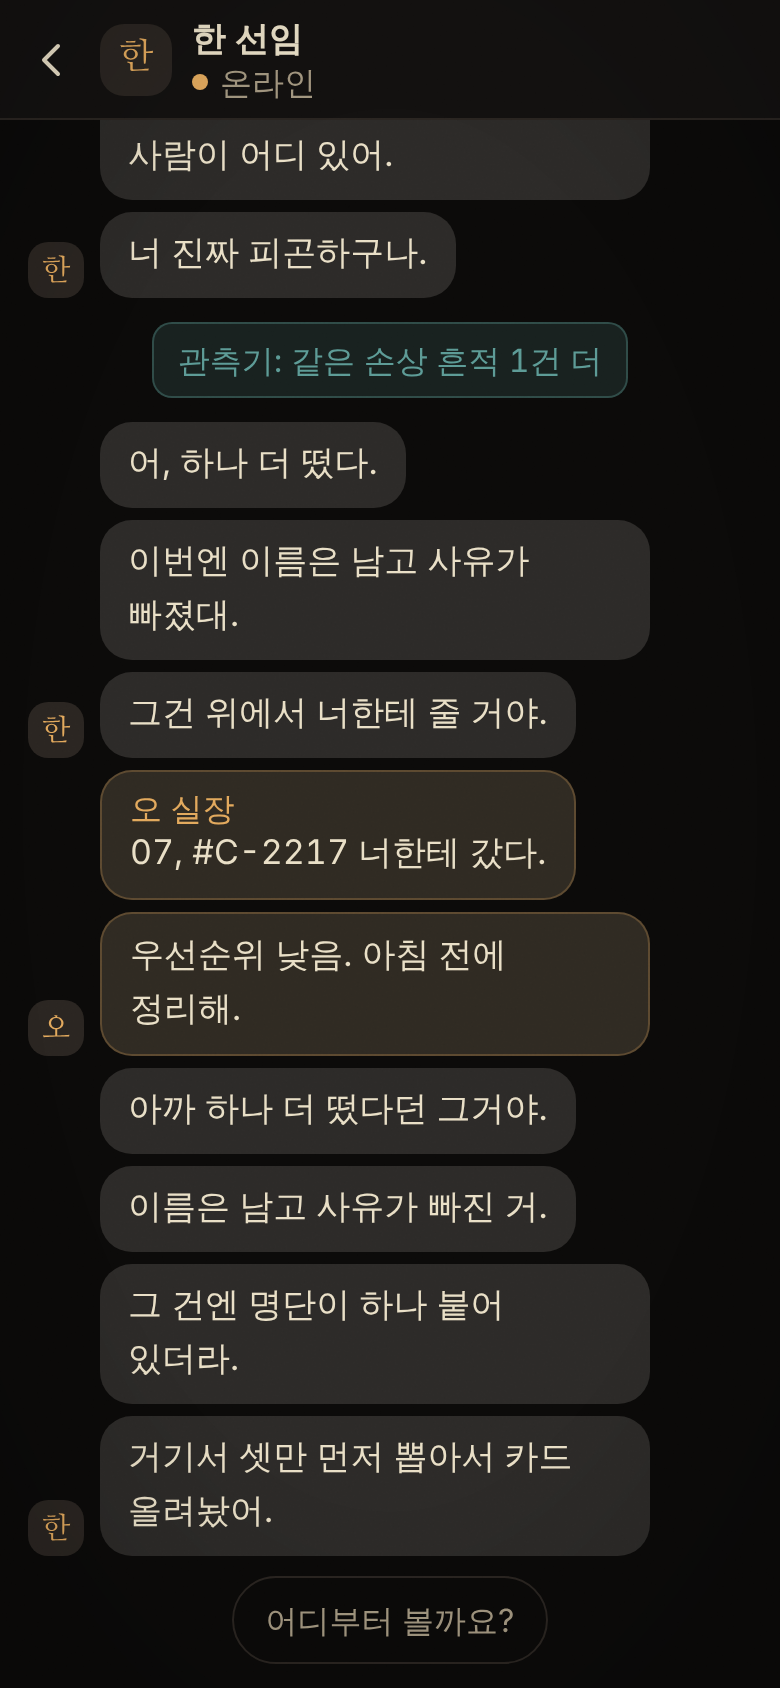
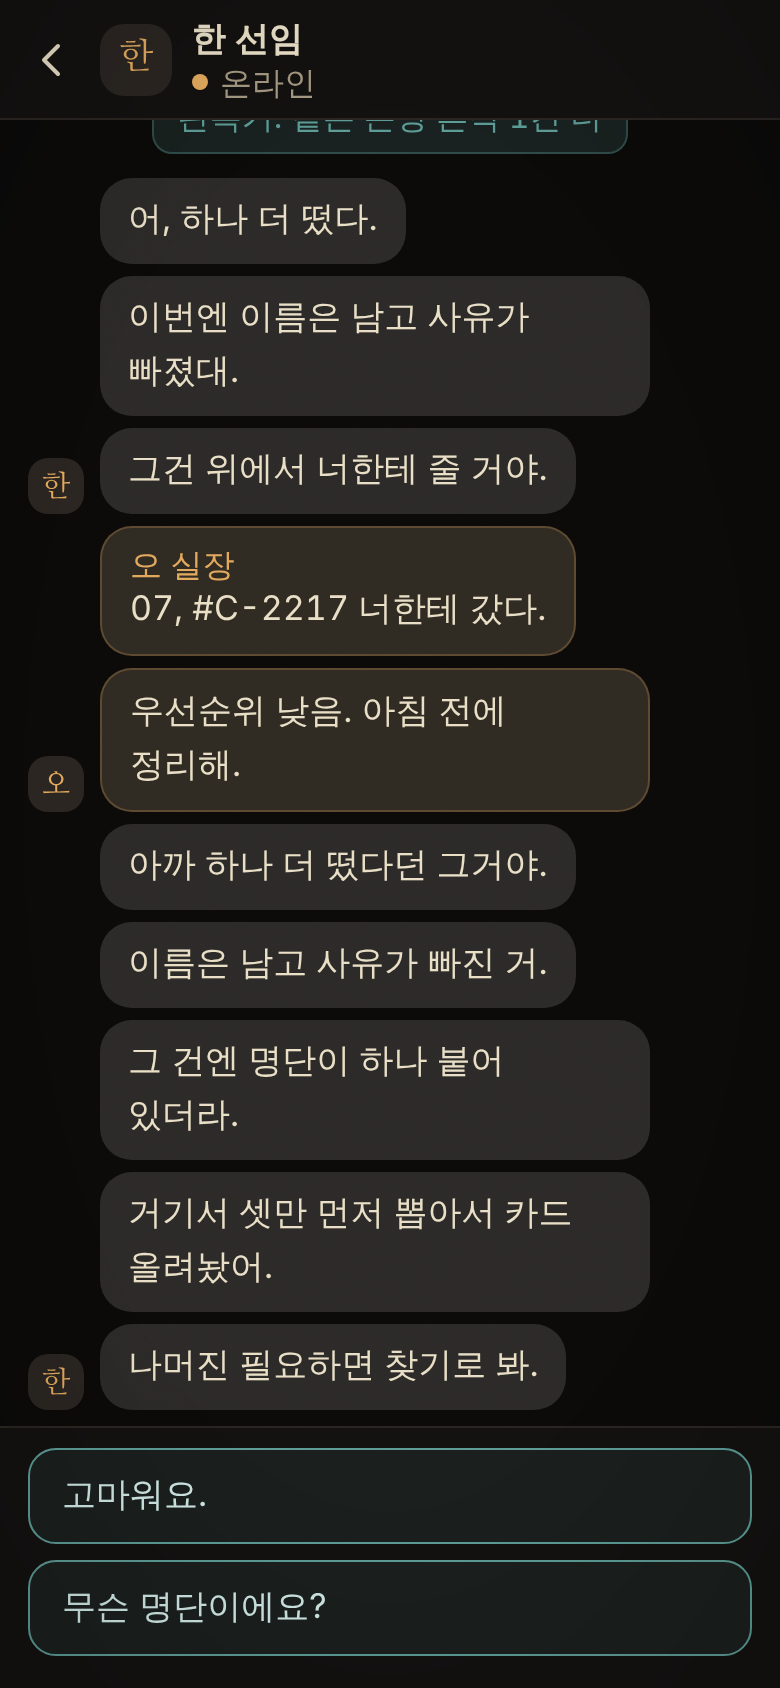
Messenger: ask-hint only when a hint is available, 30s cooldown, chip hides after asking
Claude-Session: https://claude.ai/code/session_01KFSubRhYMwfv7XXZeecSZ3

diff --git a/src/store/engine.ts b/src/store/engine.ts
@@ -521,20 +521,28 @@ export function followFactLink(w: Work, c: Ctx, factId: Id, targetCardId: Id): {
 }
 
 /** 「어디부터 볼까요?」: 07 이 묻고, 켜진 사다리의 다음 단이 바로 온다(없으면 한 선임의 한 줄) */
-export function askHint(w: Work, c: Ctx): { status: 'hint' | 'fallback' | 'busy'; ladderId?: Id } {
-  if (w.s.messenger.choice) return { status: 'busy' };
+/** 물은 뒤 다시 물을 수 있기까지(ms) — 힌트 사다리를 연달아 털지 못하게 */
+export const ASK_COOLDOWN_MS = 30_000;
+
+/** 지금 「어디부터 볼까요?」를 물을 수 있는가: 답할 힌트가 있고, 방금 묻지 않았고, 대화가 비어 있을 때만 */
+export function canAskHint(ep: Episode, s: PersistedState, now: number): boolean {
+  if (s.messenger.choice || s.restored) return false;
+  if (s.hints.askedAt !== undefined && now - s.hints.askedAt < ASK_COOLDOWN_MS) return false;
+  const p = progress(ep, s);
+  return nextAskHint(ep.ladders, trackActive(ep.ladders, s.hints, p, now), p) !== null;
+}
+
+export function askHint(w: Work, c: Ctx): { status: 'hint' | 'busy'; ladderId?: Id } {
+  if (!canAskHint(c.ep, w.s, c.now)) return { status: 'busy' };
   const n = (w.s.hints.asked ?? 0) + 1;
-  w.s.hints = { ...w.s.hints, asked: n };
+  w.s.hints = { ...w.s.hints, asked: n, askedAt: c.now };
   w.s.messenger = M.sayMine(w.s.messenger, `${c.ep.id}.ask${n}`, c.ep.askText, c.now);
   const p = progress(c.ep, w.s);
   w.s.hints = trackActive(c.ep.ladders, w.s.hints, p, c.now);
-  const h = nextAskHint(c.ep.ladders, w.s.hints, p);
-  if (h && fireEvent(w, c, `ask.${h.stepId}`)) {
-    w.s.hints = markSent(w.s.hints, h.ladderId, c.now);
-    return { status: 'hint', ladderId: h.ladderId };
-  }
-  fireEvent(w, c, 'ask.fallback');
-  return { status: 'fallback' };
+  const h = nextAskHint(c.ep.ladders, w.s.hints, p)!;
+  fireEvent(w, c, `ask.${h.stepId}`);
+  w.s.hints = markSent(w.s.hints, h.ladderId, c.now);
+  return { status: 'hint', ladderId: h.ladderId };
 }
 
 export function openDoc(w: Work, _c: Ctx, id: Id): boolean {

diff --git a/src/store/selectors.ts b/src/store/selectors.ts
@@ -12,7 +12,7 @@ import { availablePieces, pieceLabel, renderLine, sentenceOf, sentenceSlots, slo
 import { posOf, sameMoment } from '@/core/room';
 import { cardOrder, evidenceOptions, type EvidenceOption } from '@/core/tag';
 import type { Episode, FactLink, Gloss, Hhmm, Id, SlotKind, SourceRef } from '@/core/types';
-import { knowledge, rewriteAvailable, roomUnlocked, timeChips, chipFor, resumeSummary } from './engine';
+import { canAskHint, knowledge, rewriteAvailable, roomUnlocked, timeChips, chipFor, resumeSummary } from './engine';
 import type { PersistedState, SearchLogEntry } from './state';
 
 const world = (s: PersistedState) => ({ restored: s.restored, closures: s.closures });
@@ -516,8 +516,8 @@ export function selectLog(ep: Episode, s: PersistedState) {
 }
 
 // ── 메신저 ───────────────────────────────────────────────────────
-export function selectMessenger(_ep: Episode, s: PersistedState, now: number): MessengerView {
-  return messengerView(s.messenger, now, s.restored);
+export function selectMessenger(ep: Episode, s: PersistedState, now: number): MessengerView & { canAsk: boolean } {
+  return { ...messengerView(s.messenger, now, s.restored), canAsk: canAskHint(ep, s, now) };
 }
 
 // ── 기록 다시 쓰기 ───────────────────────────────────────────────

diff --git a/tests/unit/store-ep0.test.ts b/tests/unit/store-ep0.test.ts
@@ -211,13 +211,19 @@ describe('store — Ep0 correct path', () => {
     drainMessages(h, 1, 'none');
     expect(texts(h.store)).toContain('어디부터 볼까요?');
     expect(texts(h.store)).toContain('모르는 얼굴 있으면 눌러 봐.');
+    // 연달아 묻기는 막힌다(같은 말이 쌓이지 않는다)
+    expect(h.st().askHint()).toEqual({ status: 'busy' });
+    expect(texts(h.store).filter((t) => t === '어디부터 볼까요?')).toHaveLength(1);
+    h.advance(31_000);
     h.st().askHint();
     drainMessages(h, 1, 'none');
     expect(texts(h.store)).toContain('두루마리에 뭐라고 적혀 있지?');
     h.st().tag('fig_choi', 'choi_manri', 'd_scroll_head', 'e0-1');
+    h.advance(31_000);
     h.st().askHint();
     drainMessages(h, 1, 'none');
     expect(texts(h.store)).toContain('그 사람이 자기를 뭐라고 불렀지?');
+    h.advance(31_000);
     h.st().askHint();
     drainMessages(h, 1, 'none');
     expect(texts(h.store)).toContain('최만리 카드를 펼쳐 봐.');

diff --git a/tests/e2e/v5.spec.ts b/tests/e2e/v5.spec.ts
@@ -210,6 +210,8 @@ test.describe('v5 전체 플레이', () => {
     await expect(tid(page, 'chat')).toContainText('응, 한글은 쓰는데 만든 사람은 기록에 없지.');
     await expect(tid(page, 'ask-hint')).toBeVisible();
     await tid(page, 'ask-hint').click();
+    // 한 번 물으면 버튼이 사라져 연달아 누를 수 없다
+    await expect(tid(page, 'ask-hint')).toHaveCount(0);
     await expect(tid(page, 'my-msg').last()).toContainText('어디부터 볼까요?');
     await expect(tid(page, 'their-msg').last()).toBeVisible({ timeout: 20_000 });
     await page.waitForTimeout(2500);

diff --git a/src/core/hints.ts b/src/core/hints.ts
@@ -61,6 +61,8 @@ export interface HintState {
   lastSentAt: Record<Id, number>;
   /** 플레이어가 「어디부터 볼까요?」라고 물은 수 */
   asked?: number;
+  /** 마지막으로 07 이 물은 시각(ms) — 연달아 묻기 막기 */
+  askedAt?: number;
 }
 
 export const emptyHintState = (): HintState => ({ activeSince: {}, sent: {}, lastSentAt: {} });

diff --git a/src/ui/screens/Messenger.tsx b/src/ui/screens/Messenger.tsx
@@ -148,7 +148,7 @@ export function Messenger() {
             </button>
           ))}
         </div>
-      ) : (
+      ) : !view.canAsk ? null : (
         <div className="askbar">
           <button
             className="askhint"
